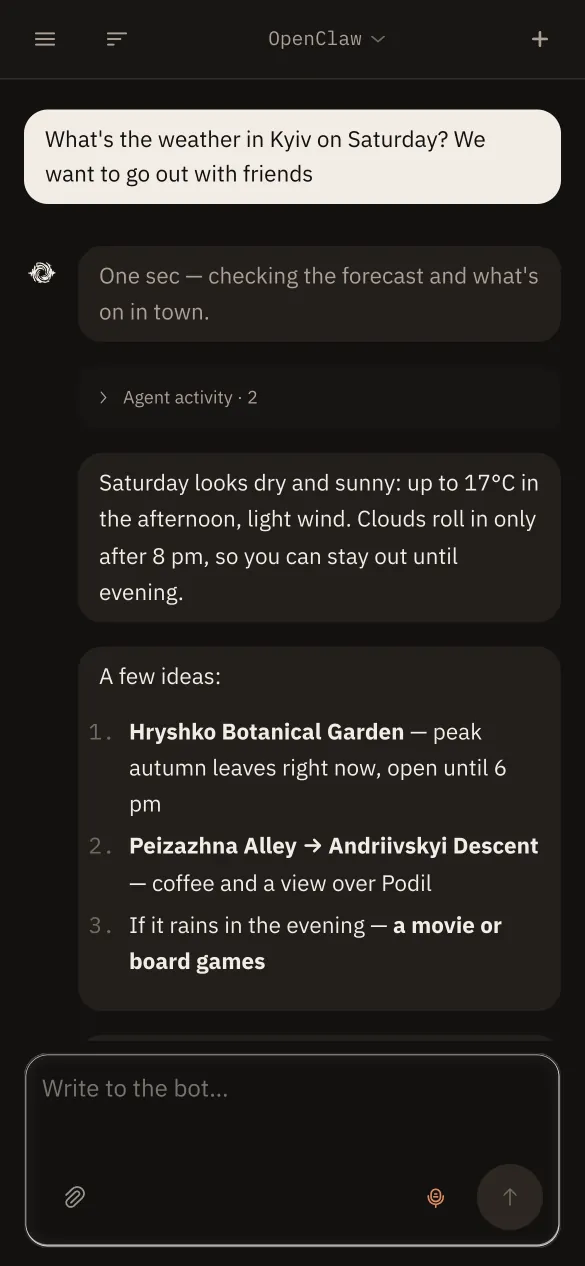
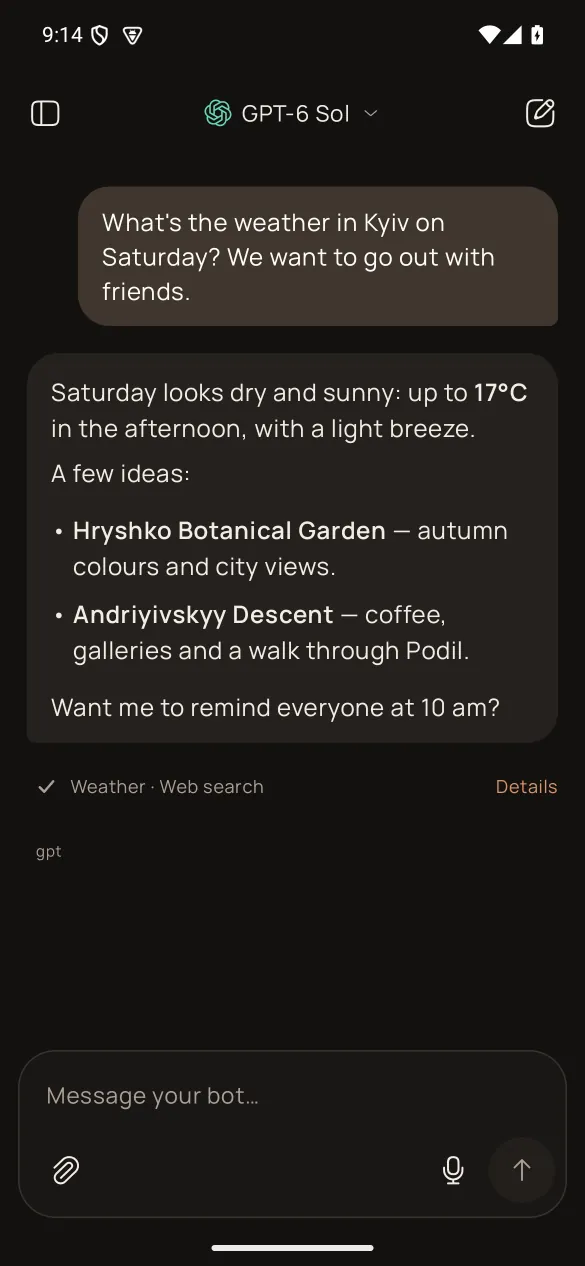
fix(landing): show the native Kotlin Android app on phones

diff --git a/mobile-app/androidApp/src/androidTest/kotlin/me/waveio/claudebot/LandingScreenshotTest.kt b/mobile-app/androidApp/src/androidTest/kotlin/me/waveio/claudebot/LandingScreenshotTest.kt
@@ -1,0 +1,116 @@
+package me.waveio.claudebot
+
+import android.graphics.Bitmap
+import android.view.WindowManager
+import androidx.activity.ComponentActivity
+import androidx.activity.enableEdgeToEdge
+import androidx.compose.ui.test.*
+import androidx.compose.ui.test.junit4.createAndroidComposeRule
+import androidx.test.platform.app.InstrumentationRegistry
+import io.ktor.client.HttpClient
+import io.ktor.client.engine.mock.MockEngine
+import io.ktor.client.engine.mock.respond
+import io.ktor.http.HttpHeaders
+import io.ktor.http.headersOf
+import kotlinx.coroutines.flow.MutableStateFlow
+import me.waveio.claudebot.data.BotApi
+import me.waveio.claudebot.platform.PickedFile
+import me.waveio.claudebot.platform.PlatformBridge
+import me.waveio.claudebot.state.AppController
+import org.junit.After
+import org.junit.Assert.*
+import org.junit.Rule
+import org.junit.Test
+import java.io.File
+import java.util.concurrent.CopyOnWriteArrayList
+
+/** Captures the actual KMP app shell, controller and Compose chat for the landing page.
+ * Only the host and native side effects are fixtures; no owner data or network is used.
+ */
+class LandingScreenshotTest {
+    @get:Rule val compose = createAndroidComposeRule<ComponentActivity>()
+    private val bridge = LandingCaptureBridge()
+    private val clients = CopyOnWriteArrayList<HttpClient>()
+    private lateinit var controller: AppController
+
+    @After fun cleanup() {
+        if (::controller.isInitialized) controller.close()
+        clients.forEach { it.close() }
+    }
+
+    @Test fun captureEnglishNativeChatWithDrawerClosed() {
+        val instrumentation = InstrumentationRegistry.getInstrumentation()
+        val history = instrumentation.context.assets.open("landing-chat-en.json").bufferedReader().use { it.readText() }
+        compose.activityRule.scenario.onActivity {
+            it.enableEdgeToEdge()
+            it.window.setSoftInputMode(WindowManager.LayoutParams.SOFT_INPUT_ADJUST_RESIZE)
+        }
+        compose.setContent {
+            App(bridge, onSystemBarAppearance = compose.activity::systemBarAppearance) { platform ->
+                AppController(platform, makeApi = { server, token ->
+                    val client = HttpClient(MockEngine { request ->
+                        val body = when (val path = request.url.encodedPath) {
+                            "/api/mobile/capabilities" -> """{"steer":false,"queue":true,"event_replay":true}"""
+                            "/api/brain/models" -> """{"models":[{"id":"fixture/gpt","label":"GPT-6 Sol","provider":"fixture","brand":"openai","vision":true,"efforts":["none","high"]}],"selected":"fixture/gpt"}"""
+                            "/api/sessions" -> """{"sessions":[{"id":"landing-chat","title":"Saturday with friends","updated":1791378000}]}"""
+                            "/api/sessions/landing-chat" -> history
+                            "/api/mobile/messages" -> """{"messages":[]}"""
+                            "/api/mobile/skills" -> """{"skills":[]}"""
+                            "/api/setup" -> """{"profile":{"name":"Blink","persona":"friendly"}}"""
+                            else -> error("Unexpected landing fixture request: $path")
+                        }
+                        respond(body, headers = headersOf(HttpHeaders.ContentType, "application/json"))
+                    })
+                    clients += client
+                    BotApi(server, token, client)
+                }).also { controller = it }
+            }
+        }
+        compose.waitUntil(15_000) { ::controller.isInitialized && controller.state.value.conversations.isNotEmpty() }
+        compose.runOnIdle { controller.openChat("landing-chat") }
+        compose.waitUntil(15_000) { !controller.state.value.loading && controller.state.value.messages.size == 2 }
+        compose.onNodeWithText("GPT-6 Sol").assertIsDisplayed()
+        compose.onNodeWithContentDescription("Menu").assertIsDisplayed()
+        compose.runOnIdle {
+            assertEquals("en", controller.state.value.preferences.language)
+            assertFalse(controller.state.value.menuOpen)
+            assertNull(controller.state.value.error)
+        }
+        compose.waitForIdle()
+        val directory = File(instrumentation.targetContext.getExternalFilesDir(null), "landing-capture").apply { mkdirs() }
+        val bitmap = requireNotNull(instrumentation.uiAutomation.takeScreenshot())
+        try {
+            File(directory, "mobile.png").outputStream().use { check(bitmap.compress(Bitmap.CompressFormat.PNG, 100, it)) }
+        } finally { bitmap.recycle() }
+    }
+}
+
+private class LandingCaptureBridge : PlatformBridge {
+    override val platformName = "android"
+    override val systemLanguage = "en"
+    override val reducedMotion = true
+    override val foreground = MutableStateFlow(true)
+    override val incomingPairing = MutableStateFlow<String?>(null)
+    private val preferences = mutableMapOf(
+        "server" to "https://landing.example",
+        "preferences.v1" to """{"language":"en","theme":"dark","wallpaper":false,"haptics":false,"answerHaptics":false}""",
+    )
+    private val secrets = mutableMapOf("device_token" to "landing-fixture-token")
+    private var sequence = 0
+    override fun readPreference(key: String) = preferences[key]
+    override fun writePreference(key: String, value: String?) { if (value == null) preferences.remove(key) else preferences[key] = value }
+    override fun readSecret(key: String) = secrets[key]
+    override fun writeSecret(key: String, value: String?) { if (value == null) secrets.remove(key) else secrets[key] = value }
+    override fun scanQr(onResult: (String?) -> Unit) = onResult(null)
+    override fun pickFile(kind: String, onResult: (PickedFile?) -> Unit) = onResult(null)
+    override fun startRecording(onAmplitude: (Float) -> Unit, onResult: (PickedFile?) -> Unit, onPartial: (PickedFile) -> Unit) = onResult(null)
+    override fun stopRecording() = Unit
+    override fun cancelRecording() = Unit
+    override fun haptic() = Unit
+    override fun copyText(value: String) = Unit
+    override fun shareText(value: String) = Unit
+    override fun requestNotifications(onResult: (Boolean) -> Unit) = onResult(false)
+    override fun notifyReply(title: String, body: String, conversationId: String) = Unit
+    override fun nowMillis() = 1791378000000L
+    override fun newId() = "landing-${++sequence}"
+}

diff --git a/landing/src/i18n.js b/landing/src/i18n.js
@@ -64,8 +64,8 @@ const DICT = {
     "tour.styleText": "Ім’я, характер, теми, акценти й шпалери. Із коробки — темний графіт і теракота.",
     "tour.styleAlt": "Нова розмова на тлі намальованого неба з привітанням бота.",
     "tour.phoneTitle": "І з дивана теж",
-    "tour.phoneText": "Панель ставиться на телефон як застосунок, тож ті самі розмови завжди під рукою.",
-    "tour.phoneAlt": "Та сама розмова в панелі на екрані телефона.",
+    "tour.phoneText": "Окремий застосунок для Android: розмови, файли й голосове введення, підключені до того самого бота.",
+    "tour.phoneAlt": "Розмова в нативному Android-застосунку Blink, із закритим меню.",
 
     "device.eyebrow": "Пристрій",
     "device.titleA": "А це —",
@@ -186,8 +186,8 @@ const DICT = {
     "tour.styleText": "A name, a personality, themes, accents and wallpapers. Dark graphite and terracotta out of the box.",
     "tour.styleAlt": "A new conversation over a painted sky, with the bot's greeting.",
     "tour.phoneTitle": "From the couch, too",
-    "tour.phoneText": "The dashboard installs as an app on your phone, so the same chats are always within reach.",
-    "tour.phoneAlt": "The same conversation in the dashboard on a phone screen.",
+    "tour.phoneText": "A native Android app for your chats, files and voice input, connected to the same bot.",
+    "tour.phoneAlt": "A conversation in the native Blink Android app, with its drawer closed.",
 
     "device.eyebrow": "The device",
     "device.titleA": "And this",

diff --git a/landing/src/shots.js b/landing/src/shots.js
@@ -5,7 +5,7 @@
  */
 
 // Width in pixels of each full-size capture: the dashboard at 2x, the phone
-// at 3x, the 320x240 device screen at 4x.
+// captured from the native KMP Android app at 3x, and the device screen at 4x.
 const FULL_WIDTH = {
   chat: 2880,
   memory: 2880,

diff --git a/landing/README.md b/landing/README.md
@@ -40,6 +40,8 @@ screen's catalogue. In `index.html` text is a key:
 Elements with `data-i18n` are written empty; the build fills them in English
 (`scripts/prerender-i18n.js`), so the page reads before scripts run and to
 crawlers. Product screenshots stay in English, with the optional right panel closed.
+The phone image comes from the native Kotlin Multiplatform Android app in
+`mobile-app/`, with its conversation drawer closed.
 The visitor's language is picked from `?lang=`, then the saved
 choice, then the browser, before the hero makes its entrance.
 `scripts/i18n_check.py` at the repo root checks key parity and that every key
@@ -65,6 +67,21 @@ CLERK_DISABLED=1 TELEGRAM_DISABLED=1 DISCORD_DISABLED=1 \
 BOT_ROOT="/tmp/cb-shots/Virtual Bot" BOT_URL=http://127.0.0.1:8199 \
   ./scripts/shots/capture.sh
 ```
+
+Capture the phone separately from the real Android Compose app on a dedicated
+running emulator (JDK17, Android SDK, `adb`, `cwebp`, and Python are required):
+
+```bash
+./scripts/shots/capture-android.sh emulator-5580
+```
+
+The script builds and installs the Android app/test APKs, runs
+`LandingScreenshotTest` with an English conversation fixture, and exports the
+native screenshot at 1170x2532 plus a half-width WebP. The fixture uses the real
+app shell/controller/UI with an in-memory mock host and silent platform bridge;
+it never pairs with a real bot. Display and font settings are restored on exit.
+`capture.sh` handles desktop and device-screen captures only and cannot overwrite
+the phone image with a mobile browser screenshot.
 
 `seed.py` refuses to write into the real `Virtual Bot/`. For the screen's app
 drawer, install a few store apps in the copy first

diff --git a/HANDOFF.md b/HANDOFF.md
@@ -2550,3 +2550,21 @@ not added to the logo commits. This clean-checkout limitation remains.
   Independent fallback review corrected logo specificity and English copy;
   Fable was unavailable. Screenshot backend and test browsers were stopped.
   The requested landing preview remains available on port 5199.
+
+
+## Native Android capture on the landing (2026-10-07)
+
+- Replaced the responsive-dashboard phone picture with a capture of the real
+  Kotlin Multiplatform/Compose Android app in `mobile-app/`. It uses English,
+  the dark theme and a closed conversation drawer, with synthetic conversation
+  data from an instrumentation-only fixture. No real bot or credentials are used.
+- Added `landing/scripts/shots/capture-android.sh`: dedicated-emulator guard,
+  native app/test builds, instrumentation success check, 1170x2532 capture and
+  full/half-width WebP output. Display/font overrides are restored on exit.
+  The web screenshot script now handles desktop/device views only and cannot
+  overwrite the native phone image. Updated both landing locales and provenance.
+- Validation: Android app/test builds and the native capture test passed;
+  all 8 landing tests and final production build passed. Inspected the native
+  PNG and the rendered 390px landing block, confirmed image dimensions and
+  no horizontal overflow. Independent fallback review approved; Fable was
+  unavailable. The dedicated emulator and test browser were stopped after QA.
